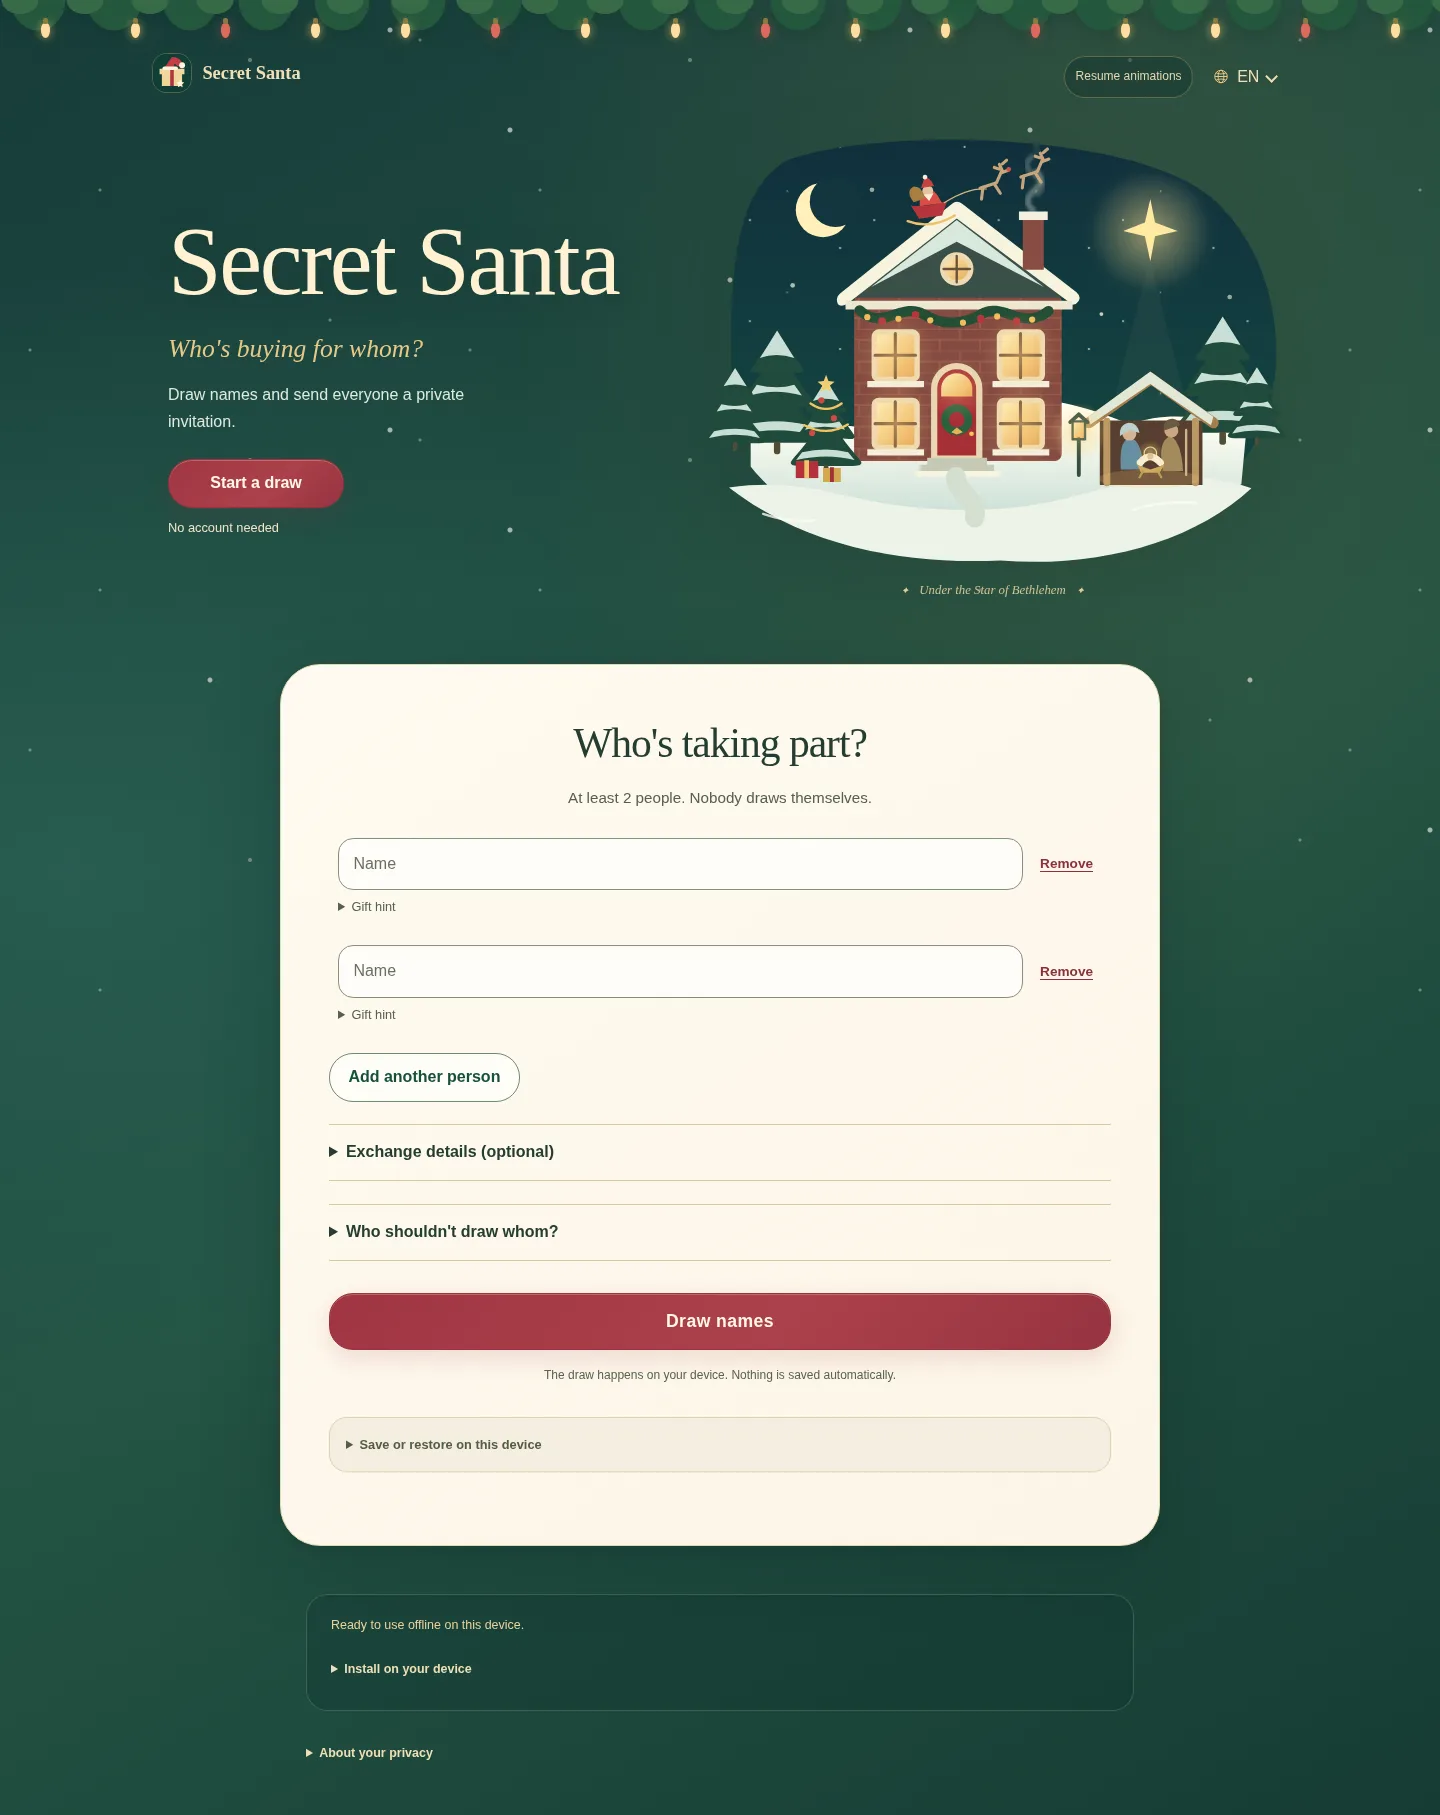
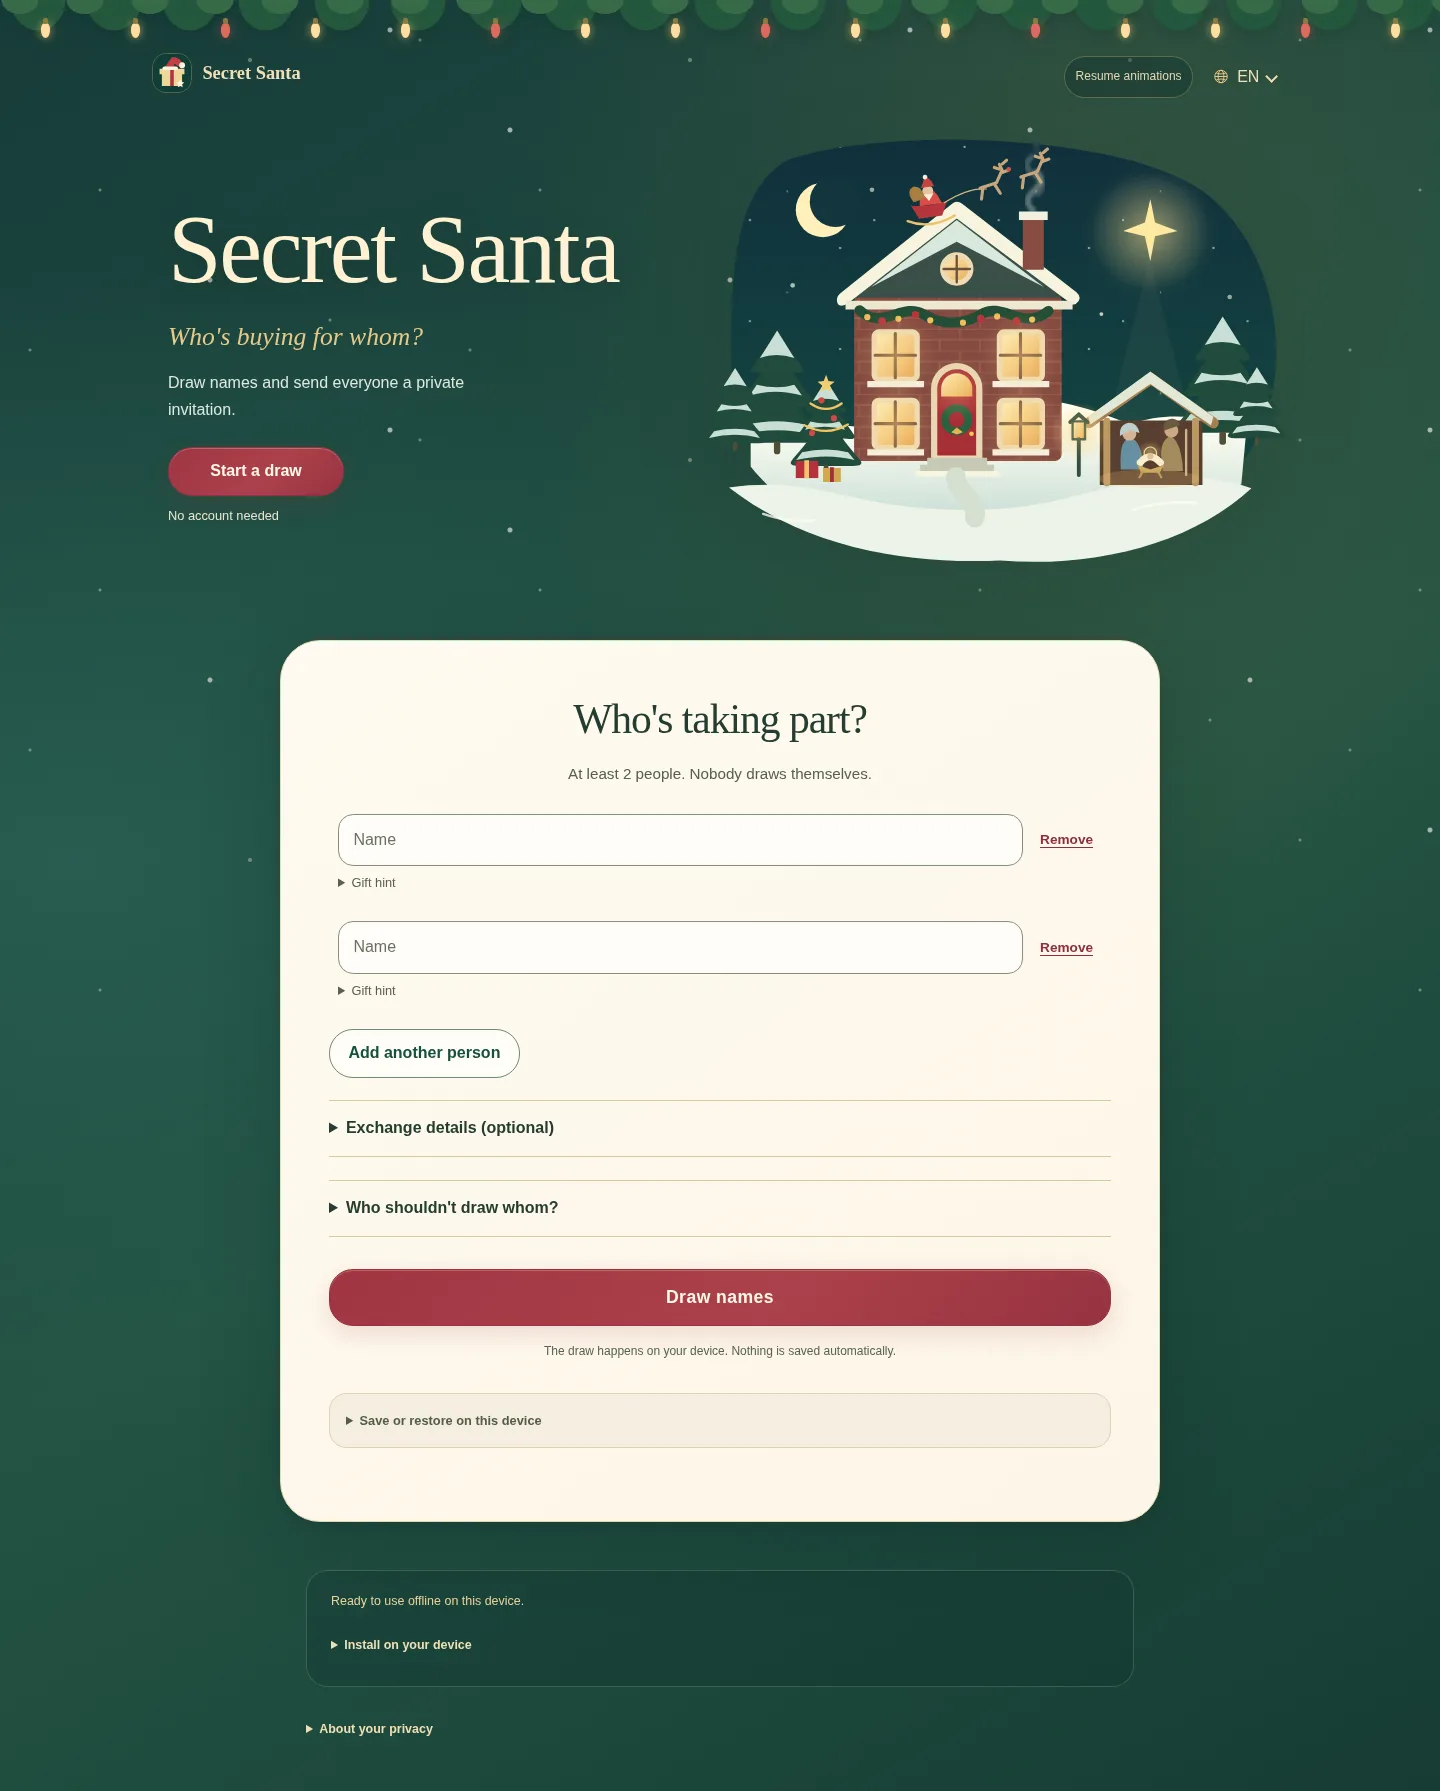
Remove the decorative star caption in all languages

diff --git a/apps/web/styles.css b/apps/web/styles.css
@@ -101,8 +101,6 @@ button.motion-toggle { border-color: #e1bc7455; color: #ead5aa; background: #0c3
 @keyframes chimney-drift { from { transform: translate3d(0, 0, 0) scale(1); opacity: .65; } to { transform: translate3d(7px, -10px, 0) scale(1.035); opacity: .35; } }
 @keyframes sleigh-drift { 0% { transform: translate3d(-32px, 5px, 0) rotate(-2deg); } 50% { transform: translate3d(0, -5px, 0) rotate(0); } 100% { transform: translate3d(38px, 2px, 0) rotate(2deg); } }
 @keyframes star-glow { from { transform: translate(-50%, -50%) scale(.9); opacity: .3; } to { transform: translate(-50%, -50%) scale(1.15); opacity: .65; } }
-.hero-scene figcaption { text-align: center; color: #dfcd9e; font: italic .8rem/1.5 Georgia, serif; margin-top: .3rem; }
-.hero-scene figcaption > span[aria-hidden] { display: inline-block; padding: 0 .5rem; font-size: .7rem; color: #f5d590; }
 
 main { width: min(calc(100% - 4rem), 880px); margin: 0 auto; padding: 2.75rem 3rem 3rem; background: linear-gradient(145deg, #fffaf0, #fcf5e7); color: var(--ink); border: 1px solid #ead8ae; border-radius: 2.5rem; box-shadow: 0 24px 80px #031c2333, 0 3px 16px #031c231a, inset 0 1px 0 #ffffffcc; }
 .section-heading { text-align: center; }
@@ -200,7 +198,6 @@ footer summary { color: #f0dfb4; }
   .hero-tagline { margin-inline: auto; max-width: 36ch; }
   .hero-scene { width: min(100%, 320px); margin: .5rem auto 0; justify-self: center; }
   .hero-scene img { width: 100%; margin: 0; }
-  .hero-scene figcaption { margin-top: .3rem; font-size: .7rem; }
   main { width: calc(100% - 1.5rem); padding: 2rem 1.15rem; border-radius: 1.9rem; box-shadow: 0 18px 55px #031c2333; }
   .section-heading > p:last-child { font-size: .85rem; }
   .invitation-cards { grid-template-columns: 1fr; }

diff --git a/index.html b/index.html
@@ -56,7 +56,6 @@
           <img class="scene-layer scene-sleigh ambient-motion" src="./apps/web/art/sleigh.svg" width="760" height="570" alt="">
           <span class="scene-star ambient-motion"></span>
         </div>
-        <figcaption><span aria-hidden="true">✦</span> <span data-i18n="design.nativity">Under the Star of Bethlehem</span> <span aria-hidden="true">✦</span></figcaption>
       </figure>
     </header>
     <main id="main" tabindex="-1" data-page-target="workspace">

diff --git a/service-worker.js b/service-worker.js
@@ -1,6 +1,6 @@
 // Bump the version whenever any precached runtime file changes. Install the
 // whole release before activation; do not replace a running app without consent.
-const CACHE_VERSION = '2026-10-27-ux-2';
+const CACHE_VERSION = '2026-10-27-ux-3';
 const SCOPE = new URL(self.registration.scope);
 const CACHE_PREFIX = `secretsanta-shell:${encodeURIComponent(SCOPE.pathname)}:`;
 const CACHE_NAME = `${CACHE_PREFIX}${CACHE_VERSION}`;

diff --git a/apps/web/i18n/fr.js b/apps/web/i18n/fr.js
@@ -144,7 +144,6 @@ export default {
   'design.noAccounts': 'Pas besoin de compte',
   'design.offline': 'Hors connexion après préparation',
   'design.private': 'Liens à envoyer en privé',
-  'design.nativity': 'Sous l’étoile de Bethléem',
   'design.workshop': 'Le tirage de Noël',
   'design.steps': 'Comment ça marche',
   'design.stepPeople': 'Ajoutez les noms',

diff --git a/apps/web/i18n/pt-BR.js b/apps/web/i18n/pt-BR.js
@@ -144,7 +144,6 @@ export default {
   'design.noAccounts': 'Não precisa de conta',
   'design.offline': 'Funciona offline após preparar',
   'design.private': 'Envie os links em particular',
-  'design.nativity': 'Sob a estrela de Belém',
   'design.workshop': 'O sorteio de Natal',
   'design.steps': 'Como funciona',
   'design.stepPeople': 'Adicione os nomes',

diff --git a/apps/web/i18n/en.js b/apps/web/i18n/en.js
@@ -144,7 +144,6 @@ export default {
   'design.noAccounts': 'No account needed',
   'design.offline': 'Works offline after setup',
   'design.private': 'Send links privately',
-  'design.nativity': 'Under the Star of Bethlehem',
   'design.workshop': 'The Christmas draw',
   'design.steps': 'How it works',
   'design.stepPeople': 'Add names',

diff --git a/docs/design.md b/docs/design.md
@@ -2,7 +2,7 @@
 
 The page uses an evergreen night sky, cranberry actions, gold highlights, cream paper forms, soft snow, and slow Christmas lights. The serif headings and warm lit house reference the atmosphere of family Christmas films. The illustration, favicon, and app icons are original; no movie frames, characters, music, or logos are used.
 
-The house illustration includes Santa's sleigh and reindeer. A small Nativity with Mary, Joseph, and the infant Jesus stands under the Star of Bethlehem. These are decorative background details outside the functional text and forms. The visible caption names the star in each supported language. The image has an empty alt attribute because the exchange workflow does not depend on interpreting it.
+The house illustration includes Santa's sleigh and reindeer. A small Nativity with Mary, Joseph, and the infant Jesus stands under the Star of Bethlehem. These are decorative background details outside the functional text and forms, with no visible caption. The image has an empty alt attribute because the exchange workflow does not depend on interpreting it.
 
 Snow and lights are pointer-transparent and hidden from assistive technology. They sit behind the content; paper panels keep snow away from inputs and text. Animations are slow, with no flashing or sound. The pause/play control is translated and remembers only an explicit preference. `prefers-reduced-motion` disables both effects regardless of saved preferences. No-JS content starts with effects paused.
 

diff --git a/docs/testing.md b/docs/testing.md
@@ -27,6 +27,7 @@ The script checks a 320px layout, drawing, exclusions, explicit reveal, local sa
 Run on Safari/iOS, Safari/macOS, Chrome/Android, desktop Chrome, Firefox, and Edge before calling those platforms verified. Do not mark a browser tested based on Chromium automation alone.
 
 - [ ] Complete a draw on a narrow phone and desktop, including exclusions and optional gift hints.
+- [ ] The welcome artwork has no caption in any language; the house, Nativity, and star remain visible.
 - [ ] On the first mobile screen, use Start a draw to reach the first name. With existing results, verify it returns to those results without redrawing or changing links.
 - [ ] Enter advances name entry, never draws; verify mobile Next keyboards and East Asian IME confirmation. Remove a middle/last/all participant and check focus. An unused trailing row can be ignored on Draw, but a row with a hint or exclusion must be kept.
 - [ ] Clear the optional exchange name, close its details, and draw. Native validation should reopen the section and focus the field.
